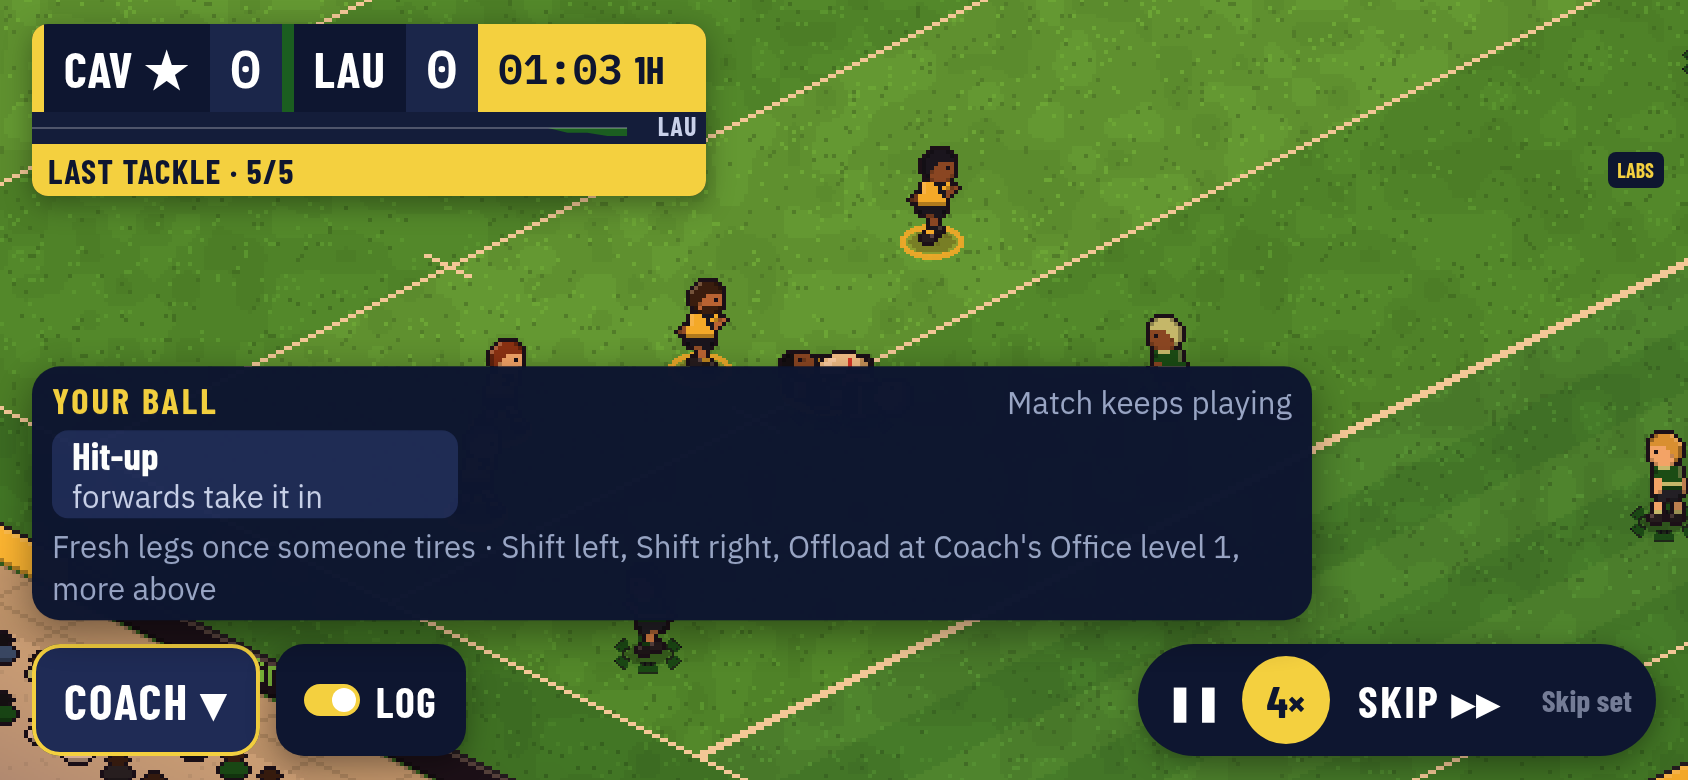
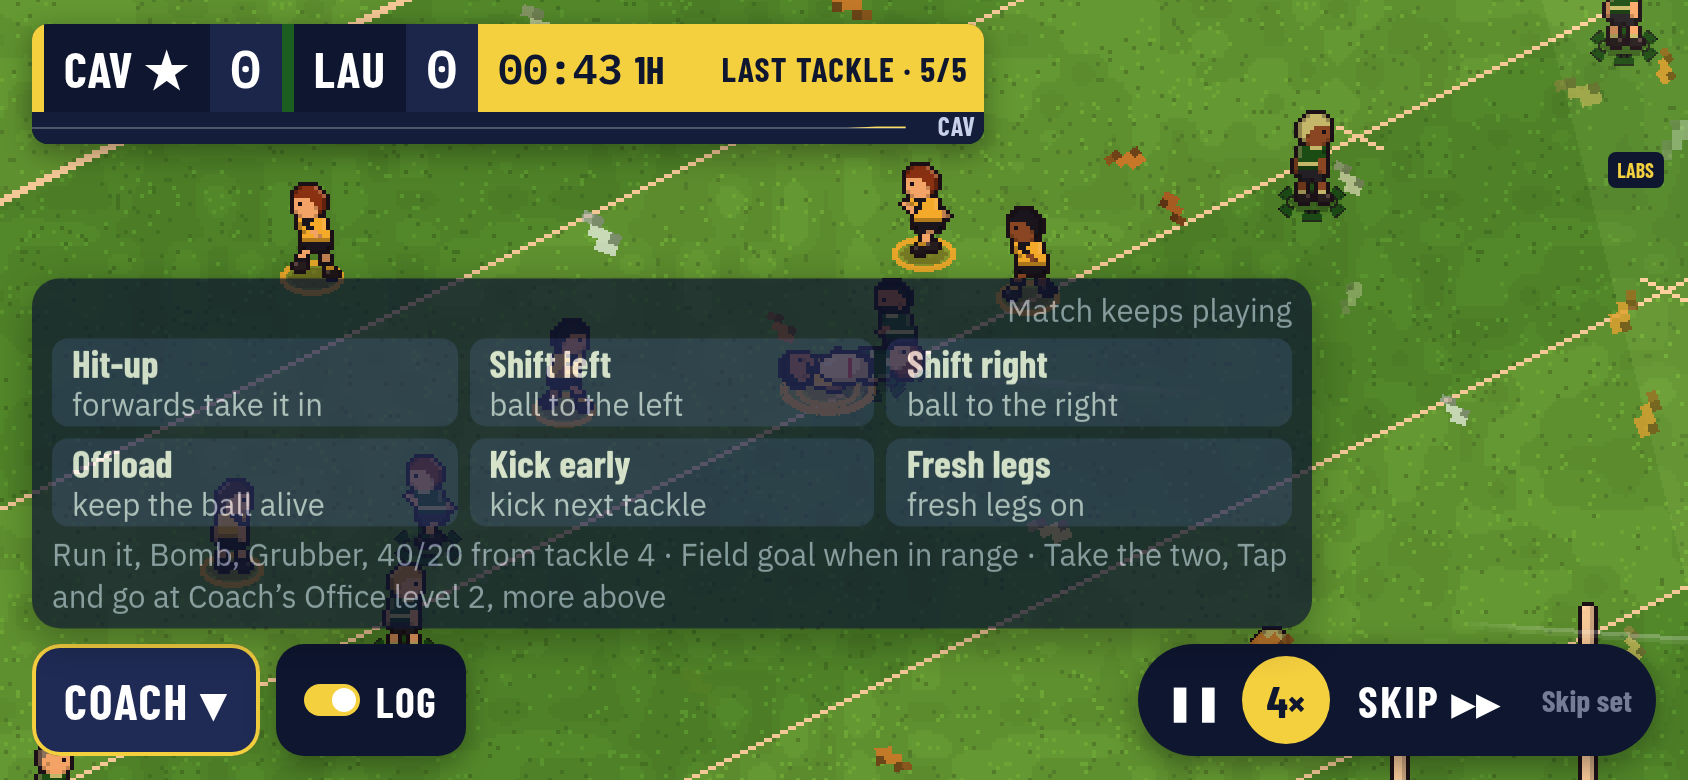
Capture inline tackle chip with full coach tray

diff --git a/docs/playtests/tackle-count-controls/README.md b/docs/playtests/tackle-count-controls/README.md
@@ -1,6 +1,6 @@
 # Tackle count and Labs gestures — 30 October 2026
 
-Landscape phone captures at 667×375, 844×390 and 956×330, each at Normal (1), Large (1.15) and Larger (1.3) text. The coach tray is open and LAST TACKLE is visible. Nines uses five-tackle sets, so the denominator stays 5.
+Landscape phone captures at 667×375, 844×390 and 956×330, each at Normal (1), Large (1.15) and Larger (1.3) text. The coach tray is filled with six calls and open and LAST TACKLE is visible. Nines uses five-tackle sets, so the denominator stays 5.
 
 Captured with Playwright's mobile/touch iPhone context, DPR 2, using the installed Chromium as an explicit fallback. WebKit's download was blocked by this cloud environment's network policy; these are Chromium captures, not Safari captures. The same smoke phase runs in WebKit CI with its existing 20-minute job limit.
 
@@ -12,6 +12,6 @@ npm run e2e:webkit -- --controls-only
 E2E_CHROMIUM_PATH=/usr/bin/chromium npm run e2e:webkit -- --controls-only
 ```
 
-The smoke waits for the player's team to possess the ball and reach the last tackle, checks the count for clipping and overlap with the score, coach tray, bottom controls, Skip and LABS badge, then sends a backward drag without a hold and waits for a kick event. `controlled-kick.png` captures the result.
+The smoke waits for the player's team to possess the ball and reach the last tackle, checks that the full tray does not scroll and the count has no clipping or overlap with the score, coach tray, bottom controls, Skip and LABS badge, then sends a backward drag without a hold and waits for a kick event. `controlled-kick.png` captures the result.
 
 These binary review artifacts belong only on `codex/tackle-count-controls-screenshots`; do not merge this branch into main.
